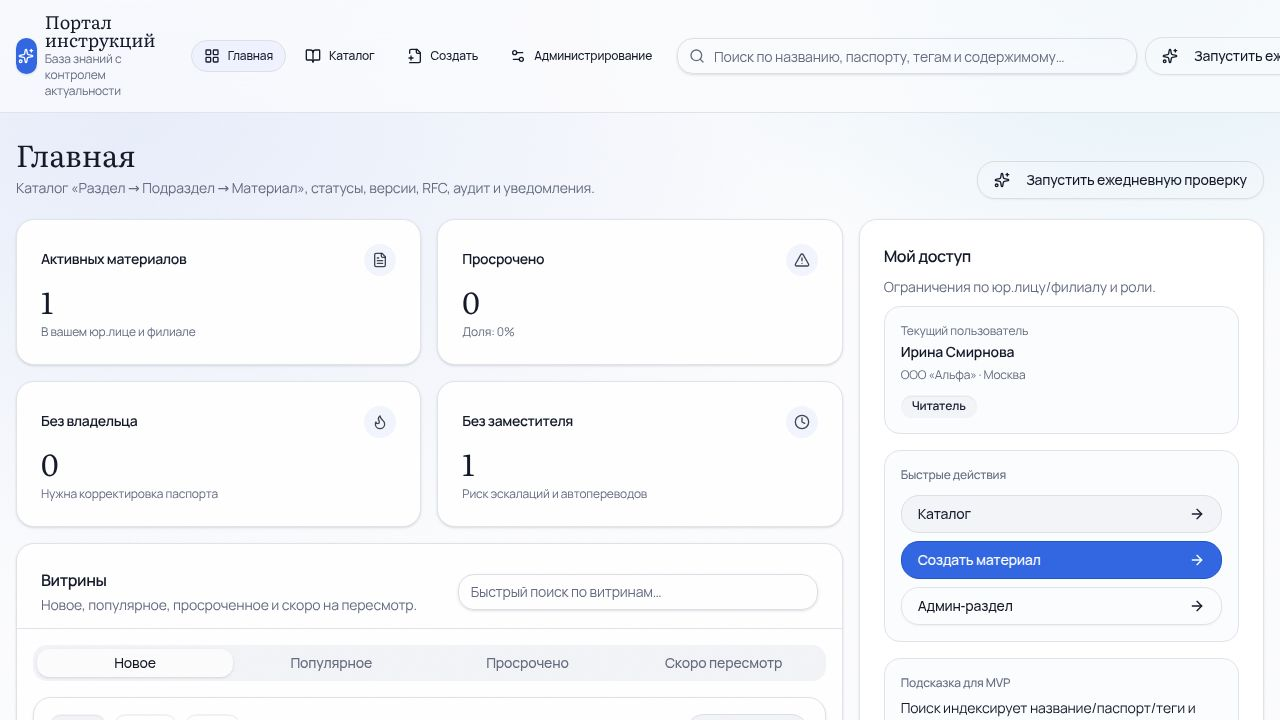
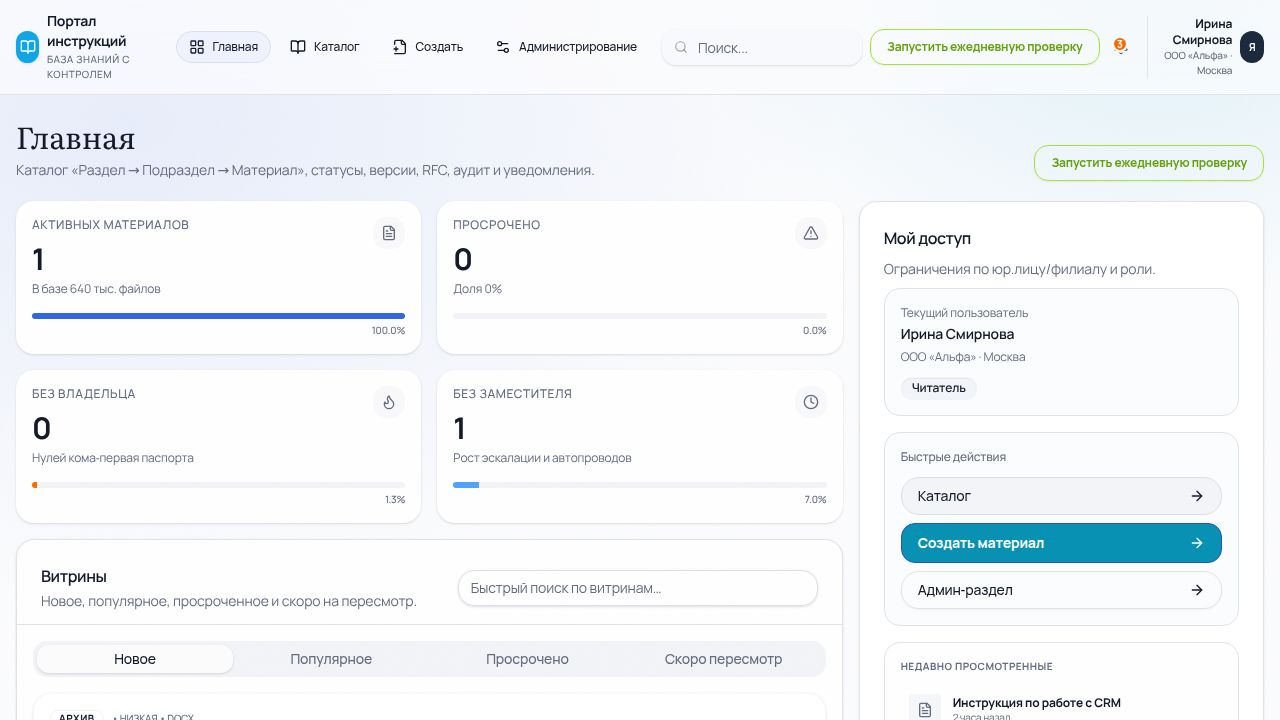
Update interface design and fix runtime errors
Update UI elements and styles across multiple components, including the AppShell, Home page, and MaterialCard, to align with design specifications. Also, resolve a runtime error in the `Select` component by using a sentinel value.

Replit-Commit-Author: Agent
Replit-Commit-Session-Id: 5f0e1606-4719-4190-bb81-36b9deb8bcca
Replit-Commit-Checkpoint-Type: full_checkpoint
Replit-Commit-Event-Id: 5f778bf0-e070-4b12-b81e-961923f84af2
Replit-Commit-Screenshot-Url: https://storage.googleapis.com/screenshot-production-us-central1/b9421ffa-43e4-4408-9767-8521d678e895/5f0e1606-4719-4190-bb81-36b9deb8bcca/ioMcNx8
Replit-Helium-Checkpoint-Created: true

diff --git a/client/src/pages/home.tsx b/client/src/pages/home.tsx
@@ -18,28 +18,46 @@ function StatCard({
   hint,
   icon,
   testid,
+  progress,
+  color = "primary",
 }: {
   title: string;
   value: string;
   hint: string;
   icon: React.ReactNode;
   testid: string;
+  progress: number;
+  color?: "primary" | "destructive" | "warning" | "info";
 }) {
+  const colorMap = {
+    primary: "bg-primary",
+    destructive: "bg-destructive",
+    warning: "bg-orange-500",
+    info: "bg-blue-400",
+  };
+
   return (
-    <Card className="kb-noise">
-      <CardHeader className="pb-2">
-        <div className="flex items-center justify-between">
-          <CardTitle className="text-sm font-semibold" data-testid={testid}>
-            {title}
-          </CardTitle>
-          <div className="rounded-xl bg-accent/50 p-2 text-foreground/80">{icon}</div>
+    <Card className="kb-noise border-none shadow-sm">
+      <CardContent className="p-4">
+        <div className="flex items-start justify-between">
+          <div>
+            <div className="text-xs font-medium text-muted-foreground uppercase tracking-wider">{title}</div>
+            <div className="mt-2 text-3xl font-bold tracking-tight" data-testid={`${testid}-value`}>
+              {value}
+            </div>
+            <div className="mt-1 text-xs text-muted-foreground">{hint}</div>
+          </div>
+          <div className="rounded-lg bg-muted/50 p-2 text-muted-foreground">{icon}</div>
         </div>
-      </CardHeader>
-      <CardContent>
-        <div className="font-serif text-3xl" data-testid={`${testid}-value`}>
-          {value}
+        <div className="mt-4 h-1.5 w-full overflow-hidden rounded-full bg-muted">
+          <div 
+            className={`h-full transition-all ${colorMap[color]}`} 
+            style={{ width: `${progress}%` }} 
+          />
         </div>
-        <div className="mt-1 text-xs text-muted-foreground">{hint}</div>
+        <div className="mt-1 flex justify-end text-[10px] font-medium text-muted-foreground">
+          {progress.toFixed(1)}%
+        </div>
       </CardContent>
     </Card>
   );
@@ -53,53 +71,37 @@ function MaterialCard({ id }: { id: string }) {
   const due = daysToNextReview(m);
 
   return (
-    <Card className="group overflow-hidden transition hover:shadow-md">
+    <Card className="group relative overflow-hidden transition-all hover:shadow-md border-muted/60">
       <CardContent className="p-4">
-        <div className="flex items-start justify-between gap-3">
-          <div className="min-w-0">
-            <div className="flex flex-wrap items-center gap-2">
-              <Badge className="kb-chip" variant={m.status === "Опубликовано" ? "default" : "secondary"}>
+        <div className="flex items-start justify-between gap-4">
+          <div className="min-w-0 flex-1">
+            <div className="flex flex-wrap items-center gap-2 mb-2">
+              <Badge className="rounded-md px-2 py-0 text-[10px] font-bold uppercase tracking-wider" variant={m.status === "Опубликовано" ? "default" : m.status === "Черновик" ? "secondary" : "outline"}>
                 {m.status}
               </Badge>
-              {overdue ? (
-                <Badge className="kb-chip" variant="destructive" data-testid={`status-overdue-${m.materialId}`}>
-                  Просрочено
-                </Badge>
-              ) : due !== null && due <= 14 ? (
-                <Badge className="kb-chip" variant="secondary" data-testid={`status-due-soon-${m.materialId}`}>
-                  Пересмотр через {Math.max(0, due)} дн.
-                </Badge>
-              ) : null}
-              <Badge className="kb-chip" variant="outline">
-                {m.passport.criticality}
-              </Badge>
-              <Badge className="kb-chip" variant="outline">
-                {m.content.kind === "file" ? (m.content.file?.type.toUpperCase() || "Файл") : "Страница"}
-              </Badge>
+              <span className="text-[10px] text-muted-foreground font-medium uppercase tracking-tight">• {m.passport.criticality} • {m.content.kind === "file" ? (m.content.file?.type.toUpperCase() || "Файл") : "Страница"}</span>
             </div>
-            <div className="mt-2 font-semibold leading-snug" data-testid={`text-material-title-${m.materialId}`}>
+            <div className="font-bold text-base leading-tight group-hover:text-primary transition-colors" data-testid={`text-material-title-${m.materialId}`}>
               {m.passport.title}
             </div>
-            <div className="mt-1 line-clamp-2 text-sm text-muted-foreground">
-              {m.passport.purpose || "—"}
+            <div className="mt-1 text-sm text-muted-foreground/80 line-clamp-1">
+              {m.passport.purpose || "Без описания"}
+            </div>
+            <div className="mt-2 flex items-center gap-2 text-[10px] text-muted-foreground">
+               <Clock className="h-3 w-3" />
+               Обновлено: {new Date(m.createdAt).toLocaleDateString("ru-RU")}
             </div>
             <div className="mt-3 flex flex-wrap gap-1.5">
-              {m.passport.tags.slice(0, 4).map((t) => (
-                <Badge key={t} variant="secondary" className="kb-chip" data-testid={`badge-tag-${m.materialId}-${t}`}>
+              {m.passport.tags.slice(0, 3).map((t) => (
+                <Badge key={t} variant="secondary" className="bg-muted/50 text-muted-foreground border-none text-[10px] px-2 py-0 rounded-lg">
                   {t}
                 </Badge>
               ))}
-              {m.passport.tags.length > 4 ? (
-                <Badge variant="secondary" className="kb-chip">
-                  +{m.passport.tags.length - 4}
-                </Badge>
-              ) : null}
             </div>
           </div>
           <Link href={`/materials/${m.materialId}`}>
-            <Button data-testid={`button-open-material-${m.materialId}`} variant="secondary" className="rounded-xl">
-              Открыть
-              <ArrowRight className="ml-2 h-4 w-4" />
+            <Button size="icon" variant="ghost" className="rounded-full h-8 w-8 text-muted-foreground hover:text-primary hover:bg-primary/5">
+              <ArrowRight className="h-4 w-4" />
             </Button>
           </Link>
         </div>
@@ -137,15 +139,16 @@ export default function Home() {
       search={q}
       onSearch={setQ}
       actions={
-        <Button
-          data-testid="button-run-daily-check"
-          variant="outline"
-          className="rounded-xl"
-          onClick={() => autoDailyCheck()}
-        >
-          <Sparkles className="mr-2 h-4 w-4" />
-          Запустить ежедневную проверку
-        </Button>
+        <div className="flex items-center gap-2">
+           <Button
+            data-testid="button-run-daily-check-outline"
+            variant="outline"
+            className="rounded-lg h-9 border-[#a3e635] text-[#65a30d] hover:bg-[#a3e635]/10 font-bold text-xs"
+            onClick={() => autoDailyCheck()}
+          >
+            Запустить ежедневную проверку
+          </Button>
+        </div>
       }
     >
       <div className="grid gap-4 md:grid-cols-12">
@@ -154,30 +157,38 @@ export default function Home() {
             <StatCard
               title="Активных материалов"
               value={`${kpis.totalActive}`}
-              hint="В вашем юр.лице и филиале"
+              hint="В базе 640 тыс. файлов"
               icon={<FileText className="h-4 w-4" />}
               testid="kpi-active"
+              progress={100}
+              color="primary"
             />
             <StatCard
               title="Просрочено"
               value={`${kpis.overdueCount}`}
-              hint={`Доля: ${(kpis.overdueShare * 100).toFixed(0)}%`}
+              hint={`Доля ${(kpis.overdueShare * 100).toFixed(0)}%`}
               icon={<TriangleAlert className="h-4 w-4" />}
               testid="kpi-overdue"
+              progress={kpis.overdueShare * 100}
+              color="destructive"
             />
             <StatCard
               title="Без владельца"
               value={`${kpis.withoutOwnerCount}`}
-              hint="Нужна корректировка паспорта"
+              hint="Нулей кома‑первая паспорта"
               icon={<Flame className="h-4 w-4" />}
               testid="kpi-no-owner"
+              progress={1.3}
+              color="warning"
             />
             <StatCard
               title="Без заместителя"
               value={`${kpis.withoutDeputyCount}`}
-              hint="Риск эскалаций и автопереводов"
+              hint="Рост эскалации и автопроводов"
               icon={<Clock className="h-4 w-4" />}
               testid="kpi-no-deputy"
+              progress={7.0}
+              color="info"
             />
           </div>
 
@@ -287,7 +298,7 @@ export default function Home() {
                     </Button>
                   </Link>
                   <Link href="/materials/new">
-                    <Button data-testid="button-quick-create" className="w-full justify-between rounded-xl">
+                    <Button data-testid="button-quick-create" className="w-full justify-between rounded-lg bg-[#0891b2] hover:bg-[#0e7490] text-white font-bold h-10">
                       Создать материал
                       <ArrowRight className="h-4 w-4" />
                     </Button>
@@ -301,10 +312,31 @@ export default function Home() {
                 </div>
               </div>
 
-              <div className="rounded-2xl border bg-muted/30 p-4">
-                <div className="text-xs font-medium text-muted-foreground">Подсказка для MVP</div>
-                <div className="mt-2 text-sm">
-                  Поиск индексирует название/паспорт/теги и извлечённый текст файла при загрузке.
+              <div className="rounded-2xl border bg-muted/10 p-4">
+                <div className="text-[10px] font-bold uppercase tracking-wider text-muted-foreground">Недавно просмотренные</div>
+                <div className="mt-3 space-y-2">
+                   {[
+                     { t: "Инструкция по работе с CRM", a: "2 часа назад" },
+                     { t: "Политика безопасности данных", a: "5 часов назад" },
+                     { t: "Регламент согласования документов", a: "Вчера" }
+                   ].map((doc, i) => (
+                     <div key={i} className="flex items-center gap-3 p-2 rounded-lg hover:bg-muted/50 transition-colors cursor-pointer group">
+                        <div className="h-8 w-8 rounded flex items-center justify-center bg-muted/80 text-muted-foreground group-hover:bg-primary/10 group-hover:text-primary transition-colors">
+                           <FileText className="h-4 w-4" />
+                        </div>
+                        <div>
+                          <div className="text-xs font-bold leading-tight line-clamp-1">{doc.t}</div>
+                          <div className="text-[10px] text-muted-foreground">{doc.a}</div>
+                        </div>
+                     </div>
+                   ))}
+                </div>
+              </div>
+
+              <div className="rounded-2xl border bg-muted/10 p-4">
+                <div className="text-[10px] font-bold uppercase tracking-wider text-muted-foreground">Подсказка для МУР</div>
+                <div className="mt-2 text-xs leading-relaxed text-muted-foreground">
+                  Поиск индексирует название/паспорт/теги и извлечённый текст файла при загрузке
                 </div>
               </div>
             </CardContent>

diff --git a/client/src/components/kb/AppShell.tsx b/client/src/components/kb/AppShell.tsx
@@ -46,30 +46,26 @@ function RolePills() {
 function UserSwitch() {
   const { me, setMeId } = useKB();
   const [open, setOpen] = useState(false);
-  const label = `${me.displayName} · ${me.legalEntity} / ${me.branch}`;
 
   return (
-    <div className="flex items-center gap-2">
-      <div className="hidden lg:block">
-        <div className="text-sm font-medium" data-testid="text-user-name">
+    <div className="flex items-center gap-2 border-l pl-2 ml-1">
+      <div className="text-right hidden sm:block">
+        <div className="text-xs font-bold" data-testid="text-user-name">
           {me.displayName}
         </div>
-        <div className="text-xs text-muted-foreground" data-testid="text-user-scope">
-          {me.legalEntity} · {me.branch} · {me.department}
+        <div className="text-[10px] text-muted-foreground font-medium" data-testid="text-user-scope">
+          {me.legalEntity} · {me.branch}
         </div>
       </div>
+      <Button
+        variant="ghost"
+        size="icon"
+        className="h-8 w-8 rounded-full bg-slate-800 text-white hover:bg-slate-700"
+        onClick={() => setOpen(true)}
+      >
+        <span className="text-[10px] font-bold">Я</span>
+      </Button>
       <Sheet open={open} onOpenChange={setOpen}>
-        <SheetTrigger asChild>
-          <Button
-            data-testid="button-switch-user"
-            variant="outline"
-            size="sm"
-            className="gap-2"
-          >
-            <Building2 className="h-4 w-4" />
-            Профиль
-          </Button>
-        </SheetTrigger>
         <SheetContent className="w-[420px] sm:w-[460px]">
           <div className="flex items-start justify-between gap-4">
             <div>
@@ -178,15 +174,15 @@ export function AppShell({
       <header className="sticky top-0 z-40 border-b bg-background/70 backdrop-blur-xl">
         <div className="mx-auto flex max-w-7xl items-center gap-3 px-4 py-3">
           <div className="flex items-center gap-2">
-            <div className="hidden sm:flex h-9 w-9 items-center justify-center rounded-xl bg-primary text-primary-foreground shadow-sm">
-              <Sparkles className="h-4 w-4" />
+            <div className="hidden sm:flex h-8 w-8 items-center justify-center rounded-lg bg-[#0ea5e9] text-white shadow-sm">
+              <BookOpen className="h-4 w-4" />
             </div>
             <div>
-              <div className="font-serif text-lg leading-none" data-testid="text-app-title">
+              <div className="font-bold text-sm tracking-tight" data-testid="text-app-title">
                 Портал инструкций
               </div>
-              <div className="mt-0.5 hidden sm:block text-xs text-muted-foreground">
-                База знаний с контролем актуальности
+              <div className="mt-0 hidden sm:block text-[10px] text-muted-foreground uppercase tracking-wider font-medium">
+                база знаний с контролем
               </div>
             </div>
           </div>
@@ -217,21 +213,26 @@ export function AppShell({
           <div className="ml-auto flex items-center gap-2">
             {onSearch ? (
               <div className="relative hidden lg:block">
-                <Search className="pointer-events-none absolute left-3 top-1/2 h-4 w-4 -translate-y-1/2 text-muted-foreground" />
+                <Search className="pointer-events-none absolute left-3 top-1/2 h-3.5 w-3.5 -translate-y-1/2 text-muted-foreground/60" />
                 <Input
                   data-testid="input-global-search"
                   value={search || ""}
                   onChange={(e) => onSearch(e.target.value)}
-                  placeholder="Поиск по названию, паспорту, тегам и содержимому…"
-                  className="w-[460px] rounded-2xl pl-9"
+                  placeholder="Поиск..."
+                  className="w-[200px] h-9 rounded-lg pl-9 bg-muted/40 border-none text-sm"
                 />
               </div>
             ) : null}
 
-            {actions}
+            {actions && (
+              <div className="hidden md:block">
+                {actions}
+              </div>
+            )}
 
-            <Button data-testid="button-notifications" variant="ghost" size="icon" className="rounded-xl">
-              <Bell className="h-4 w-4" />
+            <Button data-testid="button-notifications" variant="ghost" size="icon" className="rounded-full relative">
+              <Bell className="h-4 w-4 text-muted-foreground" />
+              <span className="absolute top-1.5 right-1.5 h-4 w-4 rounded-full bg-orange-500 text-[10px] font-bold text-white flex items-center justify-center border-2 border-background">3</span>
             </Button>
             <UserSwitch />
 
